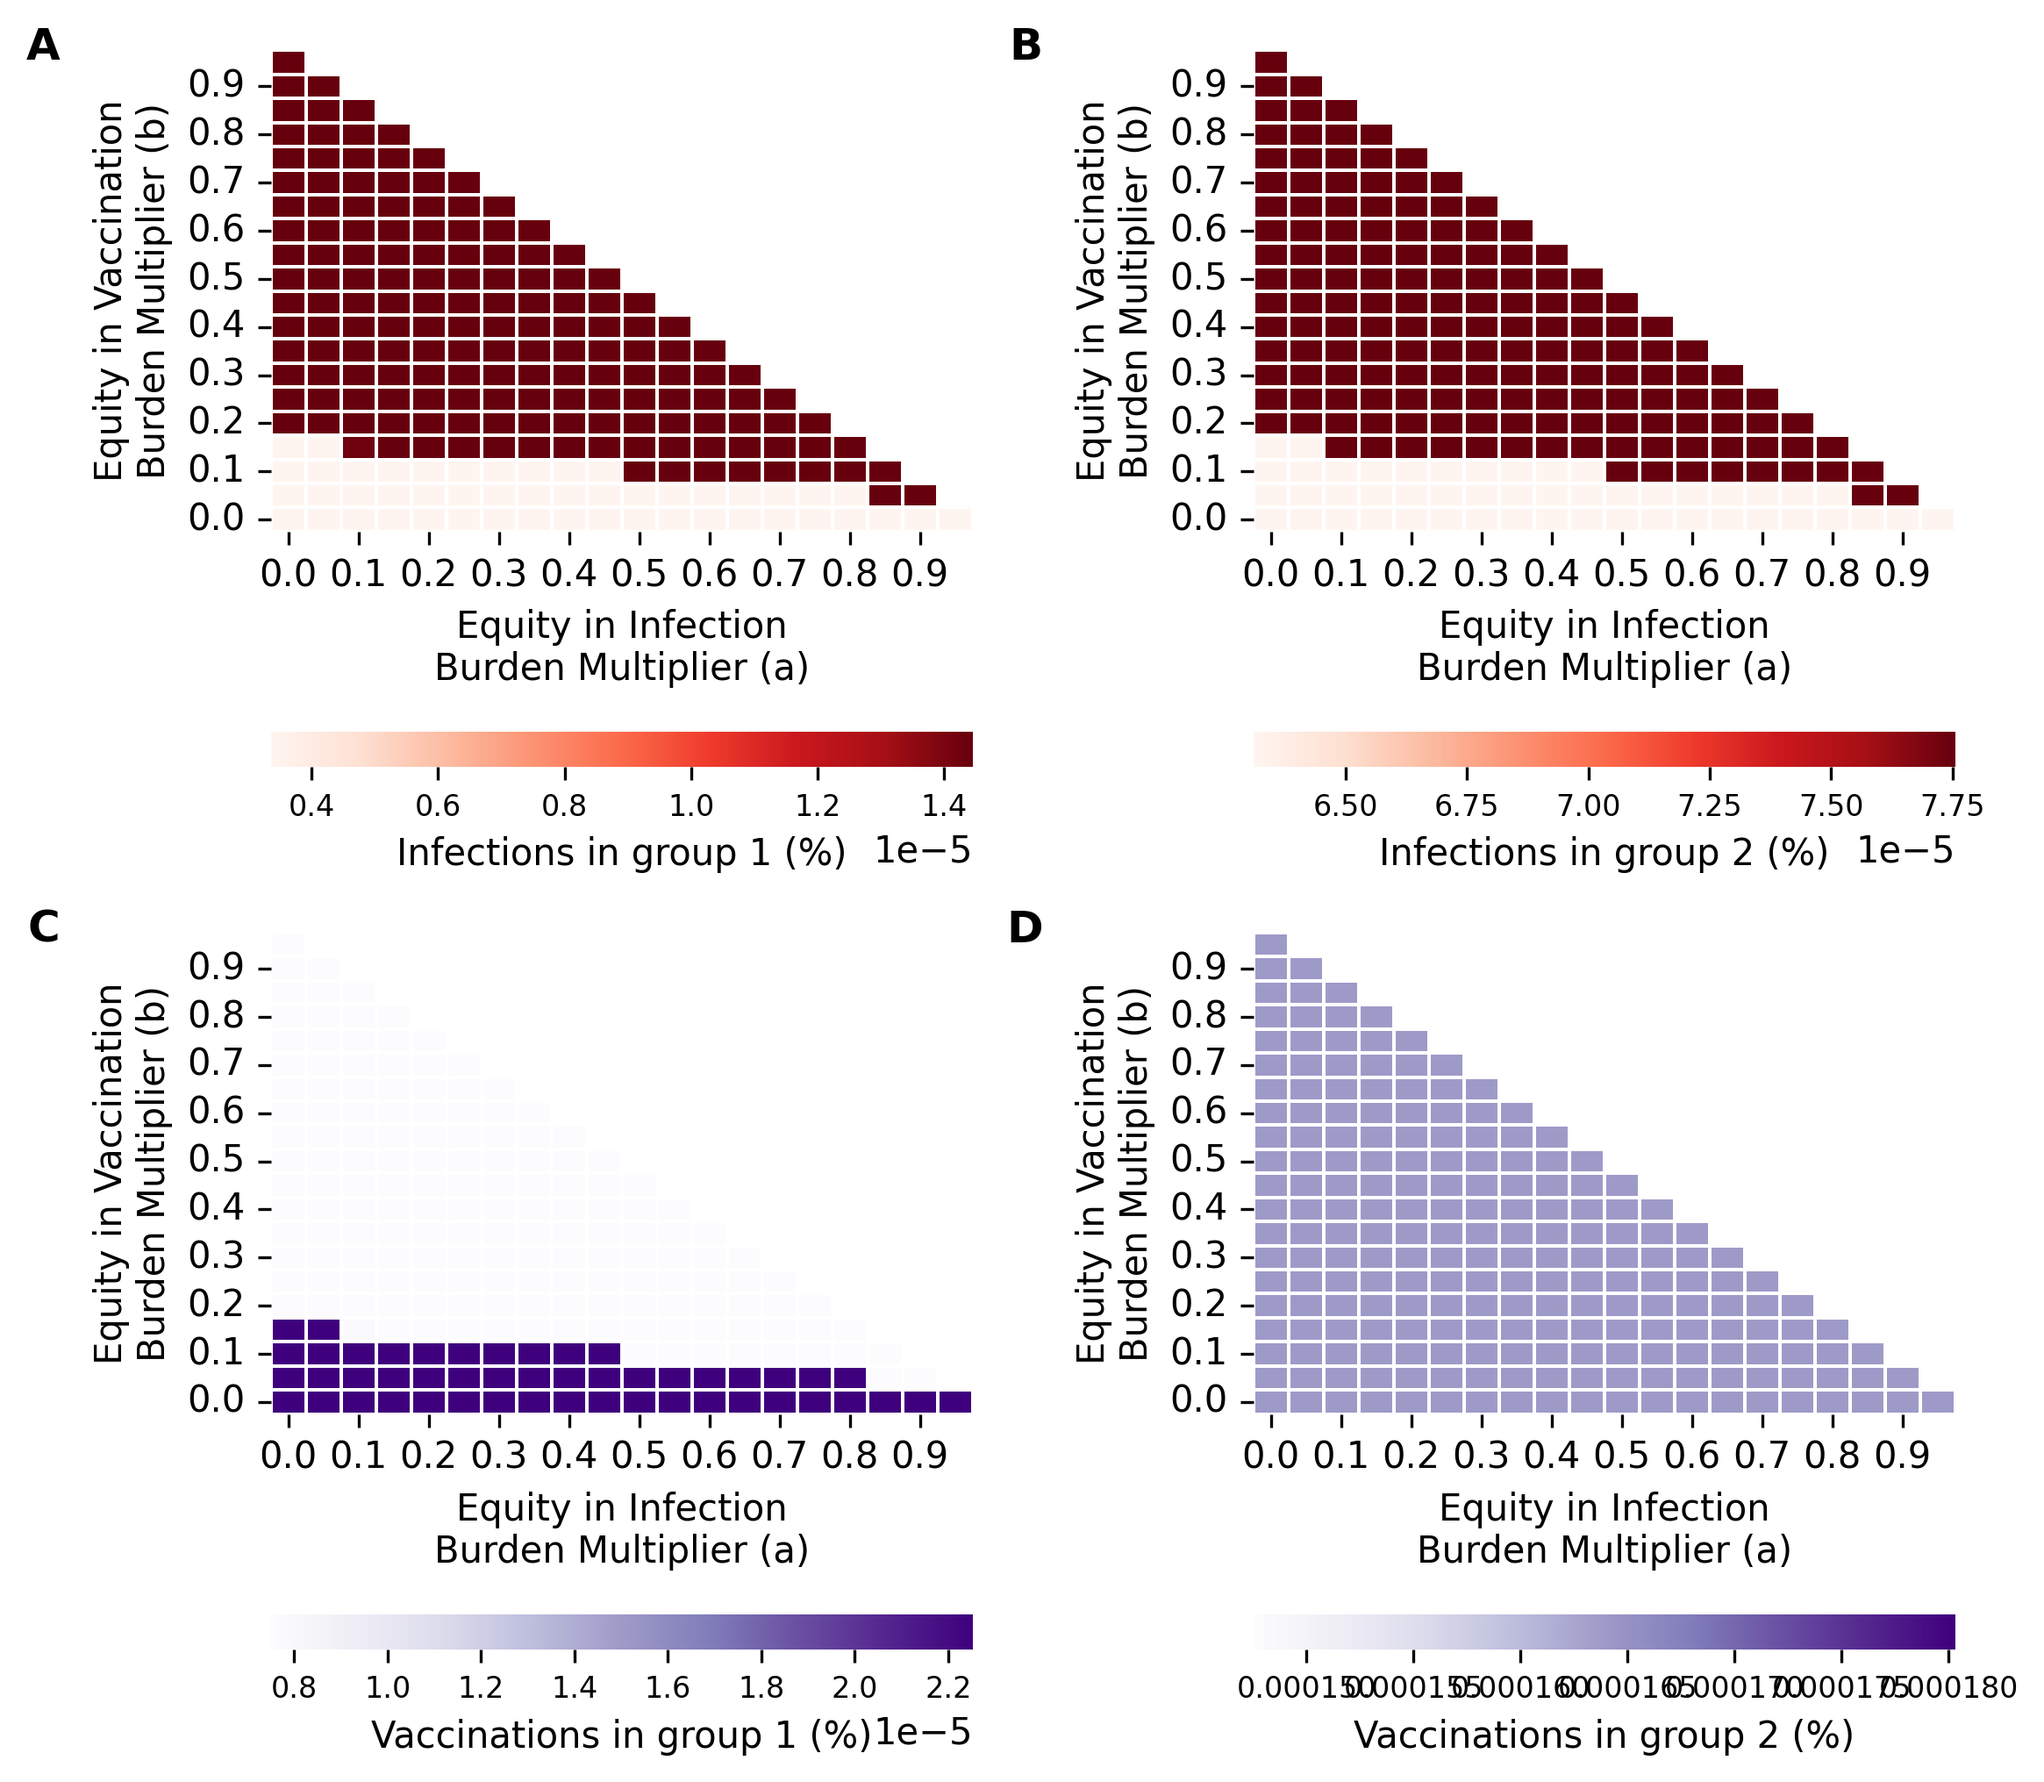
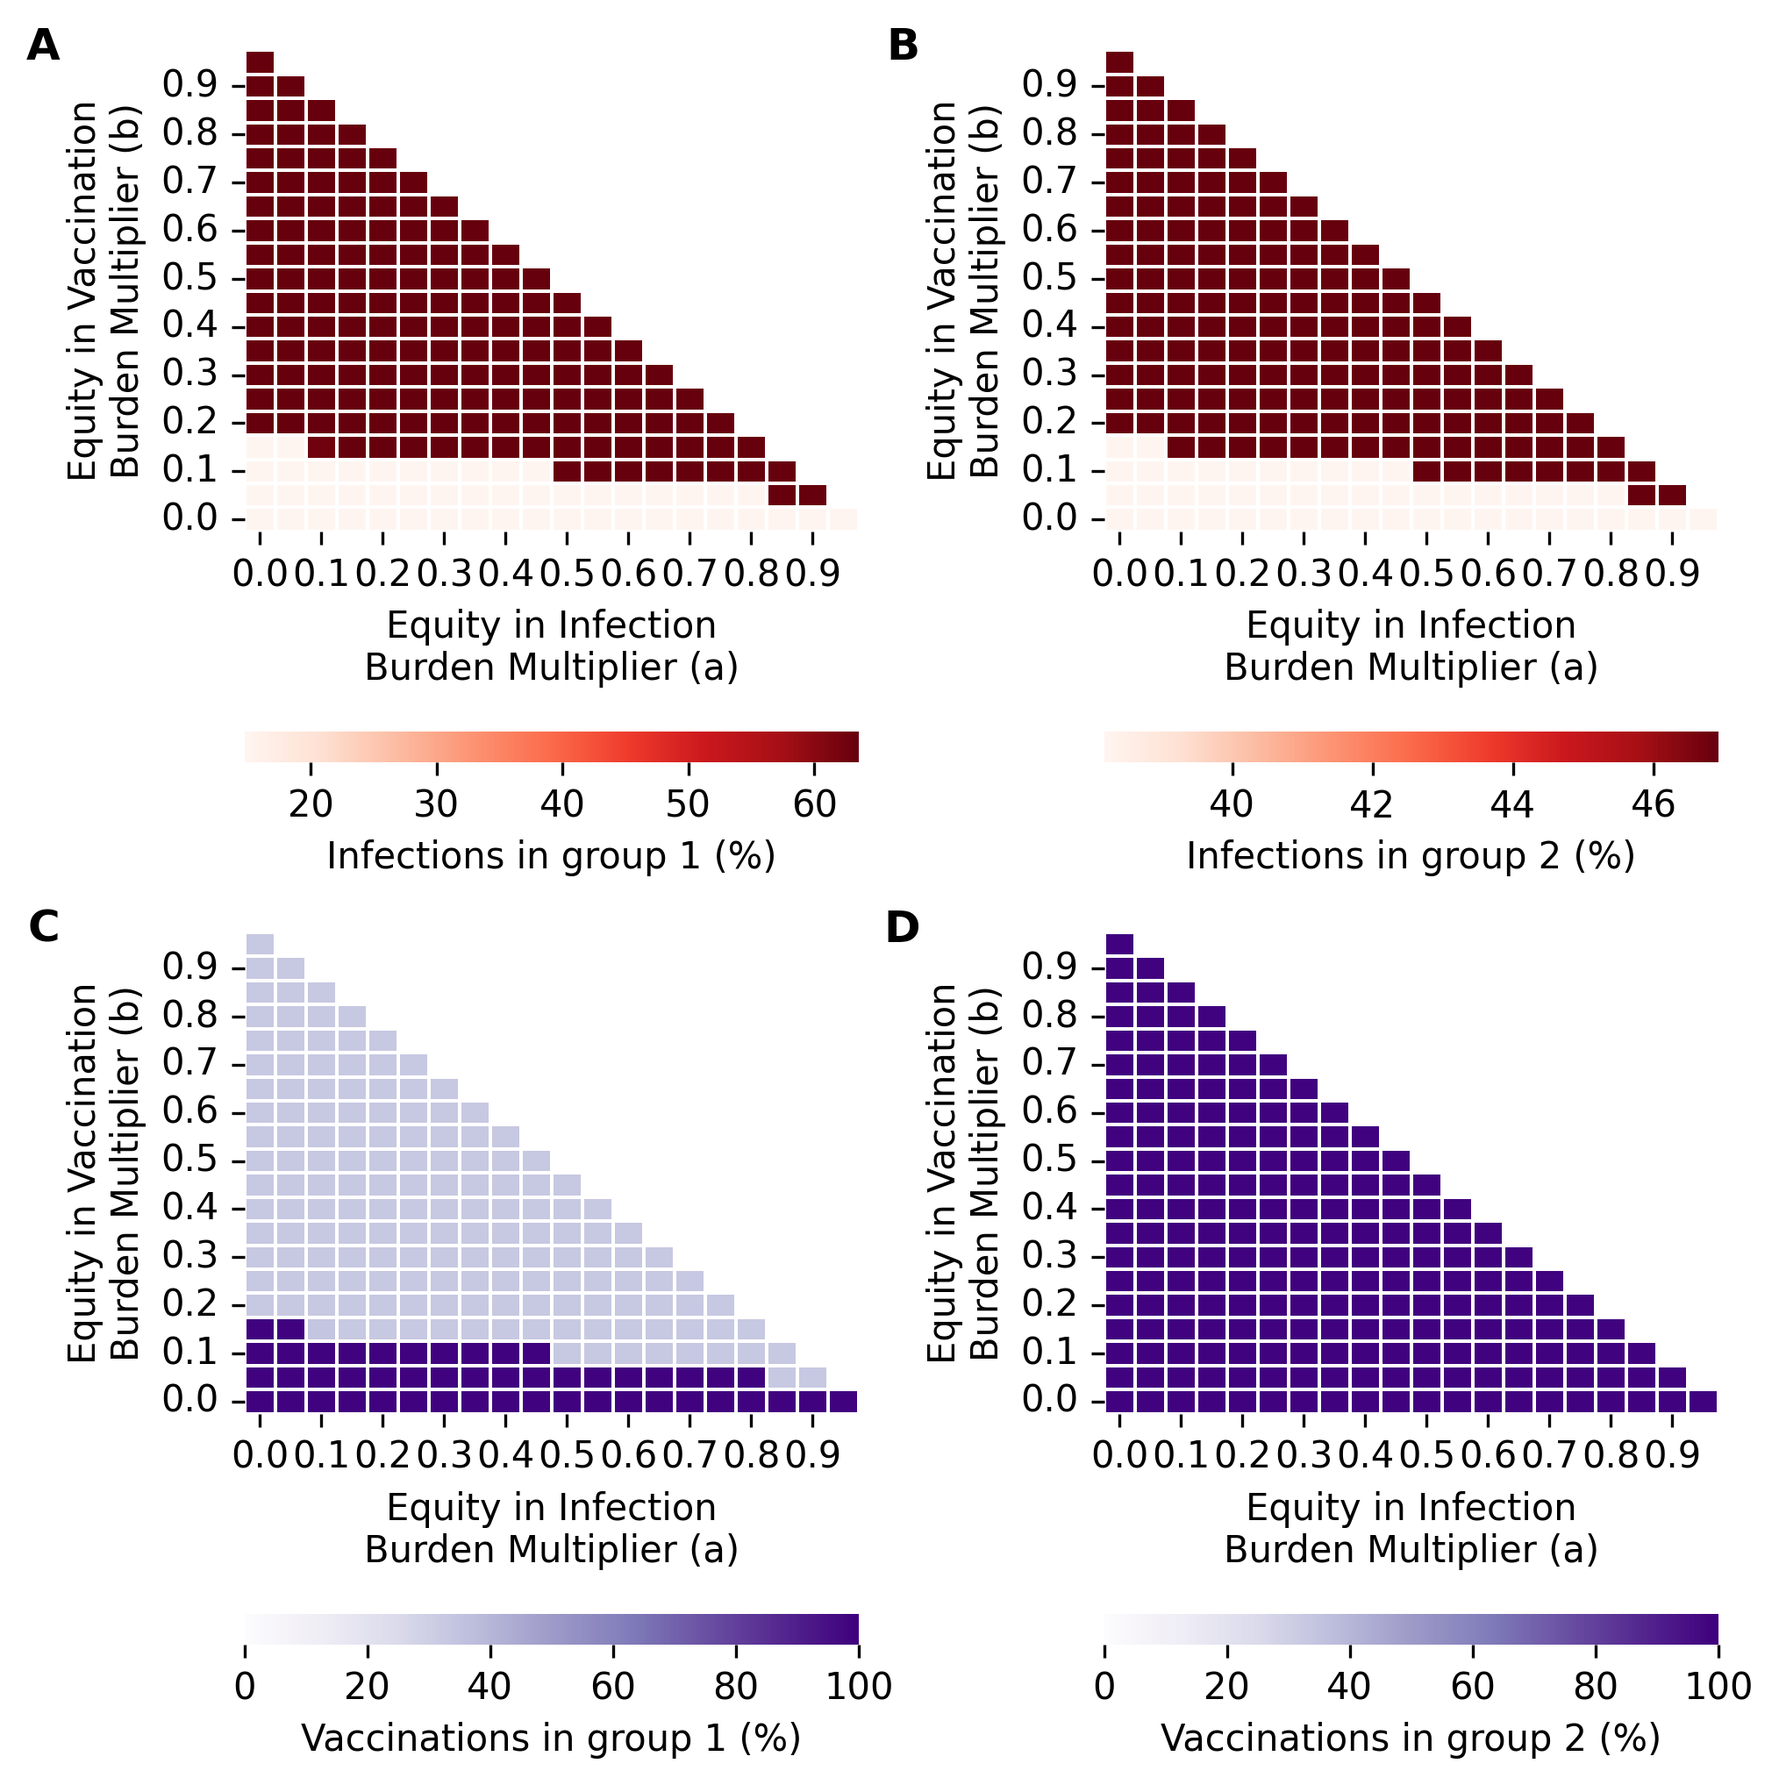
fix.a bug in plotting the percentage values

diff --git a/plot-all-optimization-results-2.py b/plot-all-optimization-results-2.py
@@ -17,6 +17,7 @@ if len(sys.argv) > 1:
 else:
     # config_file = "config/config-2024-10-14_manuscript.json"
     config_file = "config/config-2024-10-28_limited_vaccine.json"
+    config_file = "config/config-2024-10-14_manuscript.json"
 assert os.path.exists(config_file)
 # NOTE This assumes the configuration file is named with the format
 # `config-YYYY-MM-DD-<some_name>.json`. The `config_date_name` is used
@@ -256,7 +257,8 @@ for ethical_a in np.arange(grid_min, grid_max, step):
         # this is where outcomes are logged
         vac_1 = count_vaccinations_group_1(oc_ab) / pop_1(ic_ab)
         vac_2 = count_vaccinations_group_2(oc_ab) / pop_2(ic_ab)
-
+        if vac_2 >= 1:
+            print("here")
         inf_1 = count_infections_group_1(oc_ab) / pop_1(ic_ab)
         inf_2 = count_infections_group_2(oc_ab) / pop_2(ic_ab)
         
@@ -350,7 +352,7 @@ plt.subplots_adjust(left=0.1,
 
 fig.savefig(f"{output_dir}/hm_all_burdens.png", bbox_inches='tight', dpi=300)
 
-figsize=(8,8)#no in x axis, no in yaxis
+figsize=(7,8)#no in x axis, no in yaxis
 labels = ('A', 'B', 'C', 'D', 'E', 'F')
 j = 0
 fig = plt.figure(figsize=figsize)
@@ -370,6 +372,10 @@ for var, title, color in zip(variables, titles, colors):
     
     if var in ["cli_burden", "total_vacc", "inf_burden", "adv_burden"]:
         perc_var = var
+    elif var in [ "inf_1", "inf_2","vac_1", "vac_2"]:
+        perc_var = "%s_perc"%var
+        plot_df[perc_var] = 100 * plot_df[var]
+    
     else:
         perc_var = "%s_perc"%var
         plot_df[perc_var] = 100 * plot_df[var]/CONFIG["population_parameters"]["pop_size_%s"%(var.split("_")[1])]
@@ -385,9 +391,14 @@ for var, title, color in zip(variables, titles, colors):
                      cbar_kws={'label': title,"location":'bottom',
                                "pad":0.25},
                      cmap=color,annot=False, fmt='.0f')
+    #plt.gca().collections[0].set_clim(min(plot_df[perc_var]),max(plot_df[perc_var]))
+    if var in [ "vac_1", "vac_2"]:
+        plt.gca().collections[0].set_clim(0,100)
     #plt.setp(ax._legend.legendHandles, fontsize=16)
     cax = ax.figure.axes[-1]
-    cax.tick_params(labelsize=8)
+    cax.tick_params(labelsize=10)
+    #if var == "vac_2":
+    #    cax.tick_params(labelsize=6)
     #ax.legend(fontsize = 10)
     ax.invert_yaxis()
     #plt.xlabel("a")
@@ -404,4 +415,44 @@ plt.subplots_adjust(left=0.1,
 
 fig.savefig(f"{output_dir}/hm_inf_vacc.png", bbox_inches='tight', dpi=300)
 
+
+variables = ["inf_1", "inf_2", "vac_1", "vac_2", "cli_burden", "total_vacc"]
+labels = ["Infections in group 1 (%)",
+          "Infections in group 2 (%)",
+          "Vaccinations in group 1 (%)",
+          "Vaccinations in group 2 (%)",
+          "Total Clinical Burden",
+          "Total Number of Vaccinated Individuals"]
+colors = ["Reds", "Reds", "Purples", "Purples", "Reds", "Purples"]
+for var, label, color in zip(variables, labels, colors):
+    if var in ["cli_burden", "total_vacc"]:
+        perc_var = var
+    elif var in [ "inf_1", "inf_2","vac_1", "vac_2"]:
+        perc_var = "%s_perc"%var
+        plot_df[perc_var] = 100 * plot_df[var]
+    else:
+        perc_var = "%s_perc"%var
+        plot_df[perc_var] = 100 * plot_df[var]
+    plot_df["a"] = [round(i,2) for i in plot_df["a"]]
+    plot_df["b"] = [round(i,2) for i in plot_df["b"]]
+    data = plot_df.pivot(index="b", columns="a", values = perc_var)
+    plt.figure()
+    ax = sns.heatmap(data, linewidth=0.5,
+                     vmin=min(plot_df[perc_var]),
+                     vmax=max(plot_df[perc_var]),
+                     #yticklabels=['High','Medium','Low','No'],
+                     cbar_kws={'label': label},
+                     cmap=color,annot=False, fmt='.0f')
+    if var in [ "vac_1", "vac_2"]:
+        plt.gca().collections[0].set_clim(0,100)
+    ax.invert_yaxis()
+    #plt.xlabel("a")
+    #plt.ylabel("b")
+    plt.xlabel("Equity in Infection Burden Multiplier (a)")
+    plt.ylabel("Equity in Vaccination Burden Multiplier (b)")
+    if var == "total_vacc":
+        plt.savefig(f"{output_dir}/hm_%s_across_all.png"%perc_var, bbox_inches='tight', dpi=300)
+        
+    #plt.savefig(f"{output_dir}/hm_%s_across_all.png"%perc_var, bbox_inches='tight', dpi=300)
+    #plt.savefig(f"{output_dir}/hm_%s_across_all.svg"%perc_var, bbox_inches='tight', dpi=300)
 
